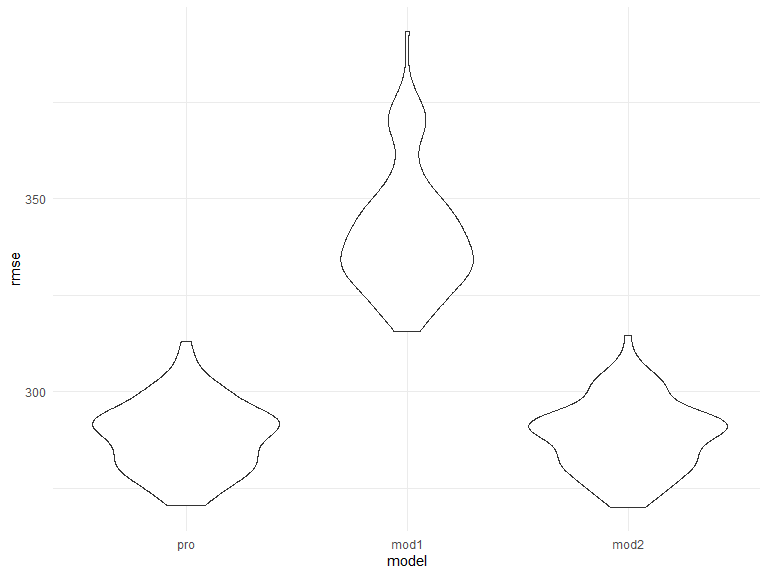
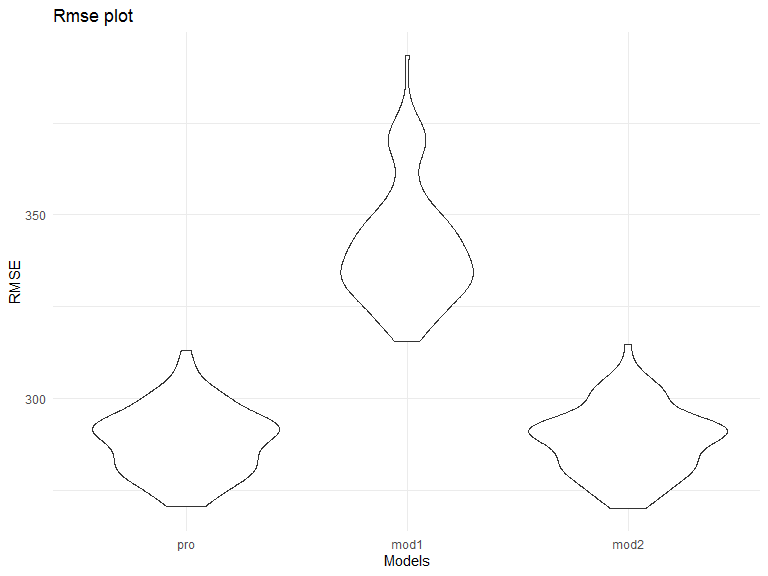
Added titles and labels for axis for all the plots. Added some contents to descriptions and comments.

diff --git a/p8105_hw6_jf3286.md b/p8105_hw6_jf3286.md
@@ -36,11 +36,20 @@ sum(is.na(data1))
 
     ## [1] 0
 
+I checked for the total number of missing data, and the result is 0.
+Therefore, there’s no missing data in this data set.
+
 Propose a regression model for birthweight.
 
 ``` r
 pro_mod = lm(bwt ~ babysex + bhead + blength, data = data1)
 ```
+
+Description: According to the common aknowledge about factors that may
+effect birthweight, the most closely relevant factors would be baby’s
+sex, head cricumference, and length at birth. Therefore I use baby’s
+sex, head circumference and length at birth as three predictors of my
+regression model, and baby’s birthweight as the outcome.
 
 Making a plot.
 
@@ -50,14 +59,15 @@ data11 = data1 %>%
    add_predictions(pro_mod) 
    
 data11 %>% 
-    ggplot(aes(x = pred, y = resid)) + geom_point()
+    ggplot(aes(x = pred, y = resid)) + 
+  geom_point()+ 
+  labs(
+    title = "Residuals vs Predictions plot",
+    x = "Predictions",
+    y = "Residuals" )
 ```
 
 <img src="p8105_hw6_jf3286_files/figure-gfm/unnamed-chunk-3-1.png" width="90%" />
-
-Description: according to the common aknowledge about factors that may
-effect birthweight, the most closely relevant factors would be baby’s
-sex, head cricumference, and length at birth.
 
 Compare my model to two others:
 
@@ -86,15 +96,24 @@ pivot_longer(
     values_to = "rmse",
     names_prefix = "rmse_") %>% 
   mutate(model = fct_inorder(model)) %>% 
-  ggplot(aes(x = model, y = rmse)) + geom_violin()
+  ggplot(aes(x = model, y = rmse)) + geom_violin()+ 
+  labs(
+    title = "Rmse plot",
+    x = "Models",
+    y = "RMSE" )
 ```
 
 <img src="p8105_hw6_jf3286_files/figure-gfm/unnamed-chunk-4-1.png" width="90%" />
 
-Comparison: From the violin plot of rmse vs model, we can tell that
-model 2 is the best model (bwt \~ babysex \* bhead \* blength), the one
-using head circumference, length, sex, and all interactions (including
-the three-way interaction) between these.
+Comparison: In this plot, pro\_mod is my proposed model, mod 1 is the
+model using length at birth and gestational age as predictors, mod 2 is
+the model using head circumference, length, sex, and all interactions
+(including the three-way interaction) between these. From the violin
+plot of rmse vs model, we can tell that model two has the lowest
+rmse.Therefore we can tell that model 2 is the best model (bwt \~
+babysex \* bhead \* blength), the one using head circumference, length,
+sex, and all interactions (including the three-way interaction) between
+these.
 
 # Problem 2
 
@@ -173,7 +192,11 @@ Plot the distribution of my estimates, and describe these in words.
 ``` r
 weather11 %>% 
 ggplot(aes(x = r_squared)) +
- geom_density()
+ geom_density()+ 
+  labs(
+    title = "R squared plot",
+    x = "R squared",
+    y = "Density" )
 ```
 
 <img src="p8105_hw6_jf3286_files/figure-gfm/unnamed-chunk-7-1.png" width="90%" />
@@ -181,12 +204,26 @@ ggplot(aes(x = r_squared)) +
 ``` r
 weather121 %>% 
   ggplot(aes(x = logb)) +
- geom_density()
+ geom_density()+ 
+  labs(
+    title = "log(β^0 * β^1) plot",
+    x = "log(β^0 * β^1)",
+    y = "Density" )
 ```
 
 <img src="p8105_hw6_jf3286_files/figure-gfm/unnamed-chunk-7-2.png" width="90%" />
-Description: Both plots have left tails, and a bit skewed. Therefore
-strict normality doesn’t apply to those two estimates.
+
+Description:
+
+Distribution of r^2 has a tail extending to low values, a bit of a
+“shoulder”, and a bit of flat “hat”, features that may be related to
+the frequency with which outliers are included in the bootstrap sample,
+and indicates that strict normality doesn’t apply.
+
+Distribution of log(β^0 \* β^1) also has a tail extending to low values,
+a bit of a “shoulder”, and a bit of skewed “hat”, features that may be
+related to the frequency with which outliers are included in the
+bootstrap sample, and indicates that strict normality doesn’t apply.
 
 Using the 5000 bootstrap estimates, identify the 2.5% and 97.5%
 quantiles to provide a 95% confidence interval for r^2.
@@ -202,7 +239,7 @@ Therefore, the 95% confidence interval for r^2 is (0.8936877,
 0.9274807).
 
 Identify the 2.5% and 97.5% quantiles to provide a 95% confidence
-interval for log(β<sup>0∗β</sup>1).
+interval for log(β^0 \* β^1).
 
 ``` r
 quantile(pull(weather121, logb),c(.025,.975))
@@ -211,5 +248,5 @@ quantile(pull(weather121, logb),c(.025,.975))
     ##     2.5%    97.5% 
     ## 1.966942 2.058528
 
-Therefore, the 95% confidence interval for log(β<sup>0∗β</sup>1) is
-(1.966942, 2.058528).
+Therefore, the 95% confidence interval for log(β^0 \* β^1) is (1.966942,
+2.058528).
